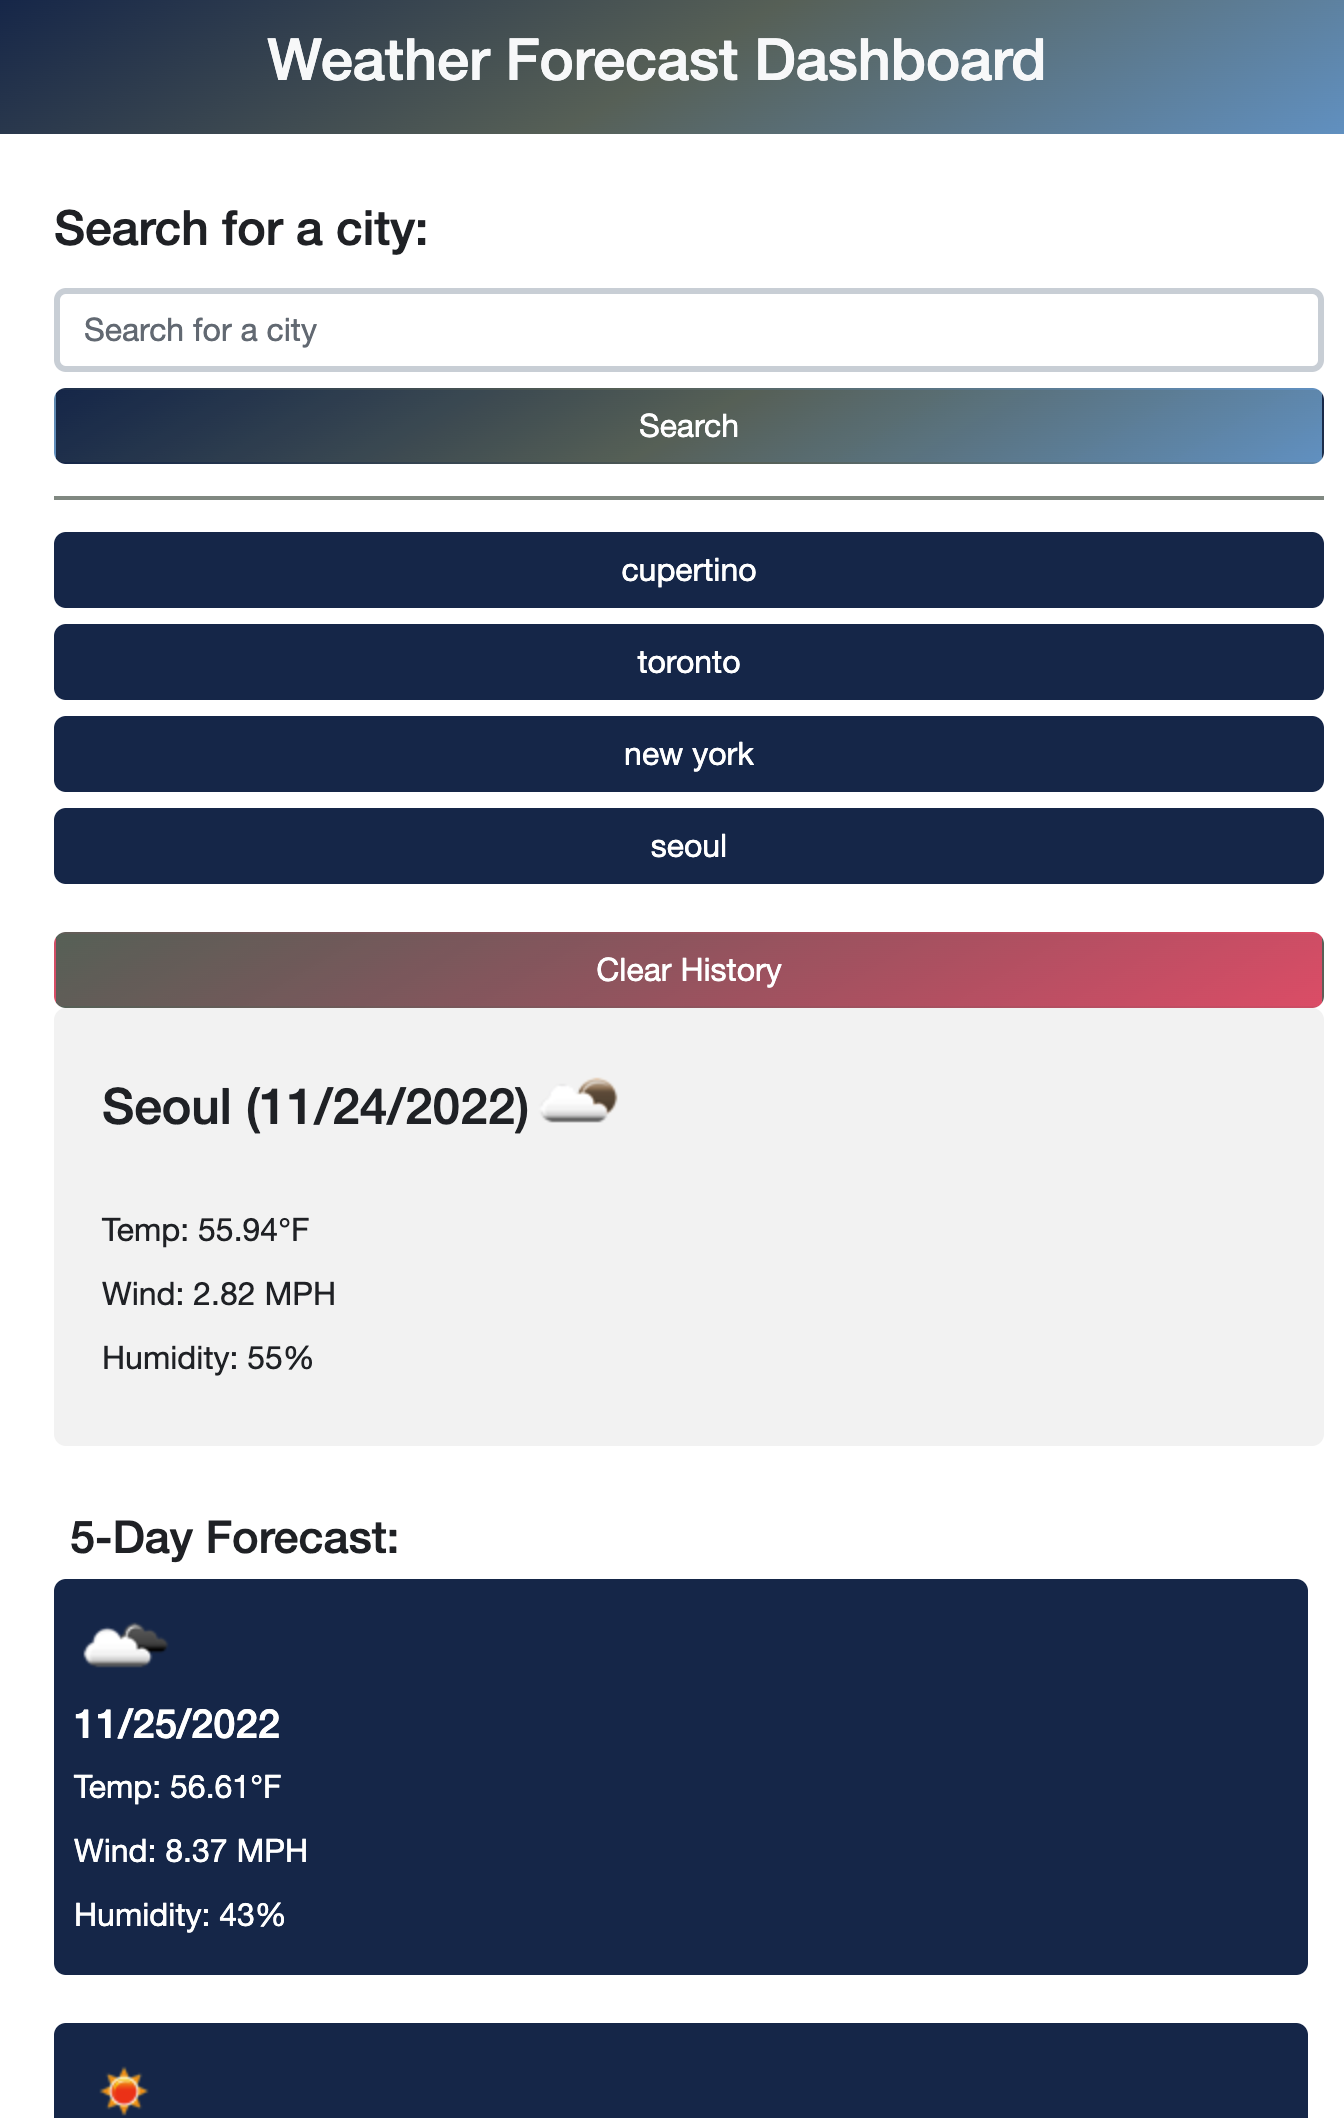
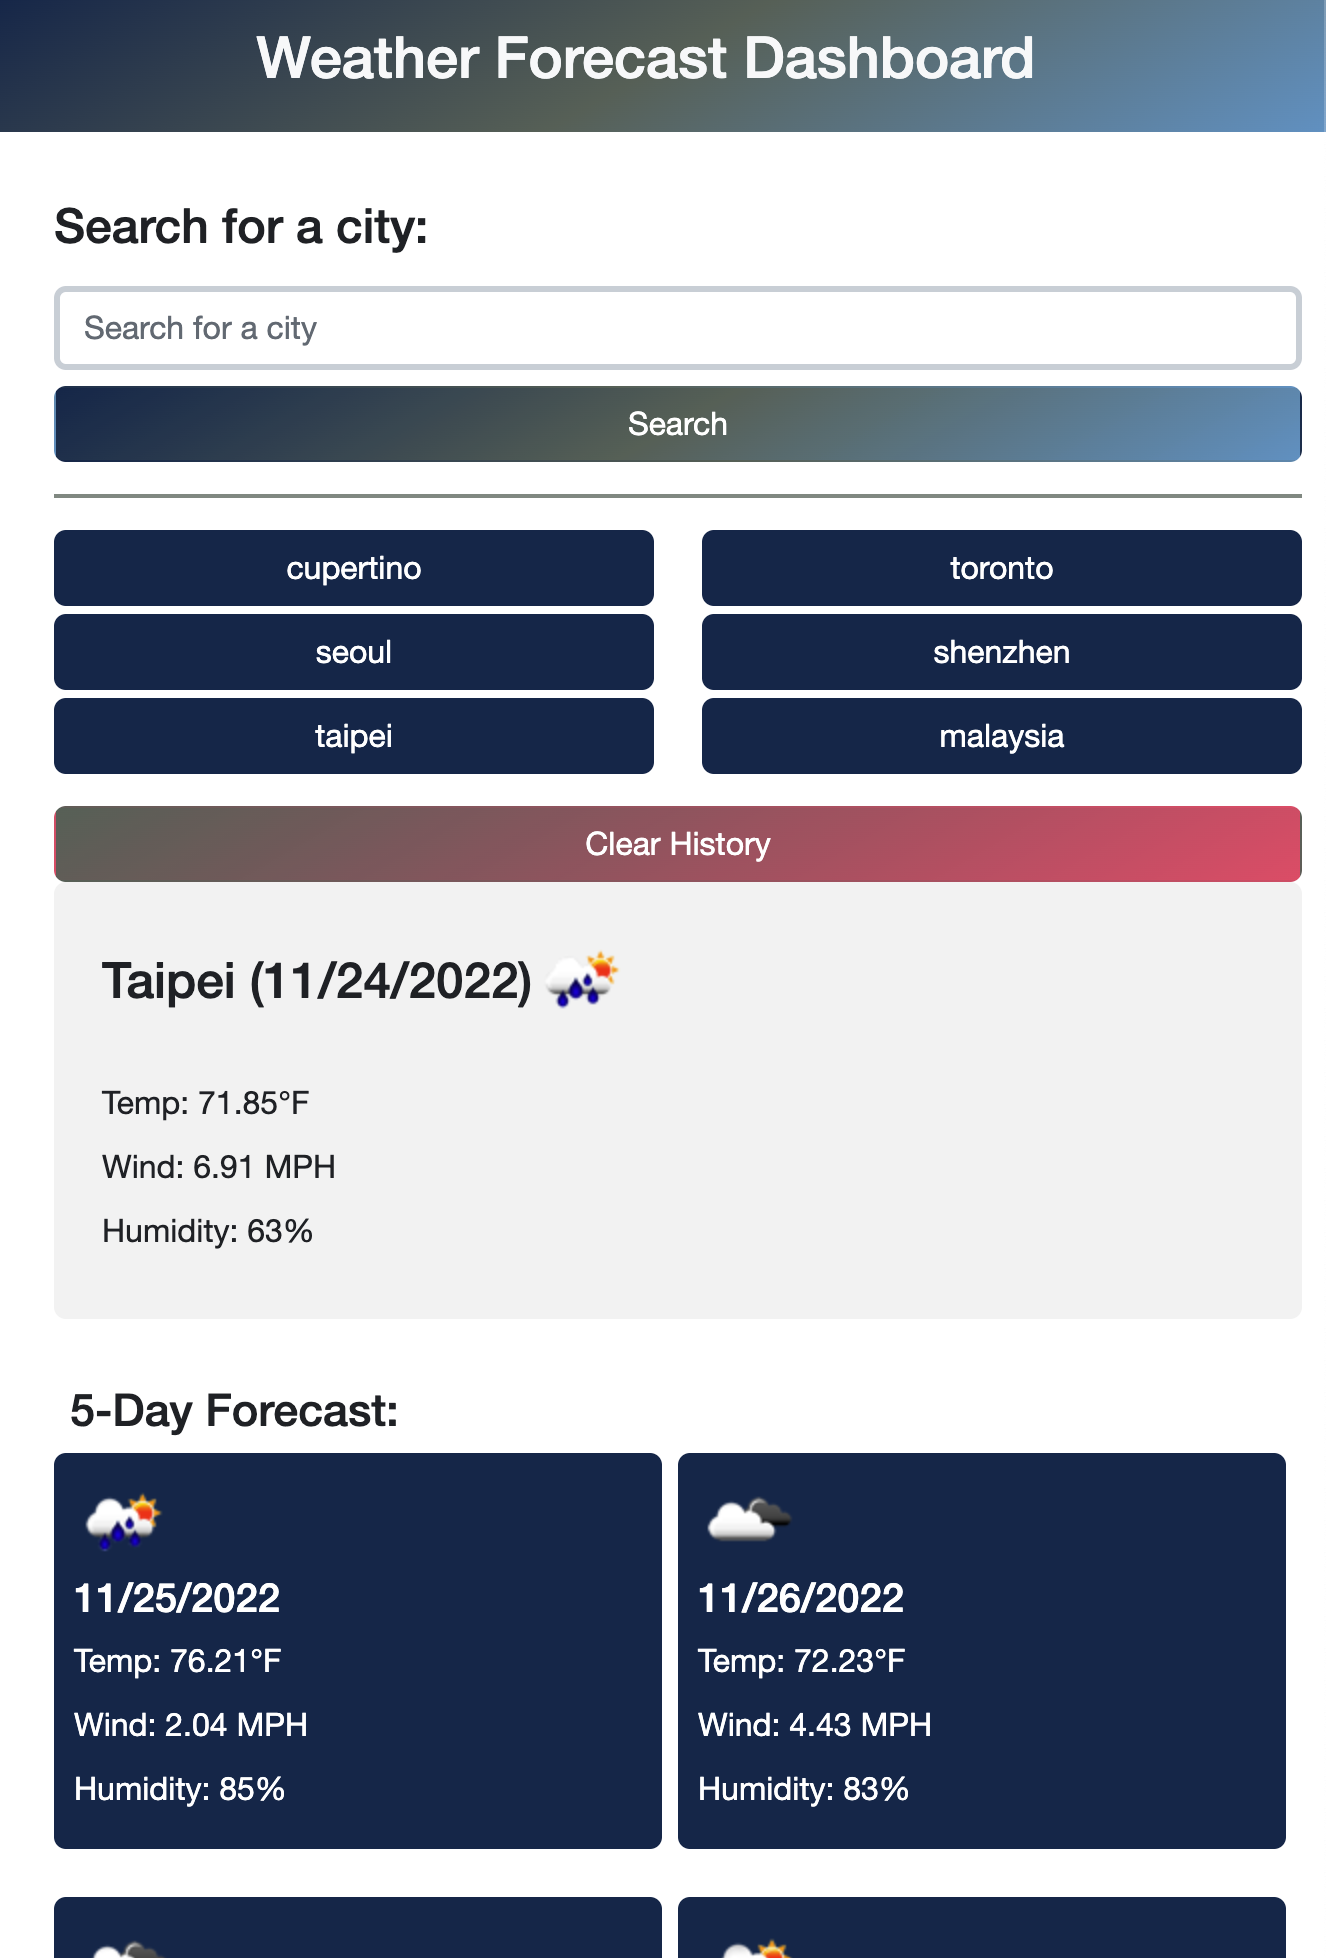
update responsive design for phone and tablet view

Changed region(s): [[0.0, 0.0, 1.0, 0.5296], [0.0309, 0.7165, 0.9894, 1.0], [0.0618, 0.5608, 0.2474, 0.6542]]

diff --git a/assets/js/script.js b/assets/js/script.js
@@ -94,7 +94,7 @@ function renderForecastCard(timezone, forecastData) {
   weatherIconEl.setAttribute('src', `https://openweathermap.org/img/w/${forecastData.weather[0].icon}.png`);
   weatherIconEl.setAttribute('class', 'weather-icon ml-1');
 
-  cardEl.setAttribute('class','col-lg col-md-4 mb-4');
+  cardEl.setAttribute('class','col-lg col-md-4 col-sm-6 mb-4');
   cardBodyEl.setAttribute('class', 'card-body p-2 rounded');
 
   dateEl.textContent = convertTimezone(timezone, forecastData.dt).format('MM/DD/YYYY');
@@ -182,12 +182,15 @@ function renderSearchHistory() {
       // Get searched city without space to use as id
       let cityId = searchHistory[i].replaceAll(' ','-');
       // Create button with seached city name as button name
+      let btnContainer = document.createElement('div');
       let historyBtn = document.createElement('button');
-      historyBtn.setAttribute('class', 'btn history-btn mb-2');
+      btnContainer.setAttribute('class', 'col-md-12 col-sm-6 col-12')
+      historyBtn.setAttribute('class', 'btn history-btn col-12');
       historyBtn.setAttribute('id', `history-${cityId}`);
       historyBtn.textContent = searchHistory[i];
       // Display button
-      searchHistoryEl.append(historyBtn);
+      btnContainer.append(historyBtn);
+      searchHistoryEl.append(btnContainer);
     }
     // Show a button to clear search history if it is not empty
     clearBtn.classList.remove('invisible');

diff --git a/index.html b/index.html
@@ -31,7 +31,7 @@
           </form>
           <hr/>
           <!-- Display cities from search history -->
-          <div class="search-history" id="search-history">  
+          <div class="row gy-1 search-history" id="search-history">  
           </div>
           <button class="btn clear-btn mt-3 invisible" id="clear-btn">Clear History</button>
         </aside>

diff --git a/assets/css/style.css b/assets/css/style.css
@@ -48,7 +48,6 @@ input.search-city {
 .history-btn {
   background-color: #0C2C52;
   color: white;
-  width: 100%;
 }
 
 .history-btn:hover {
